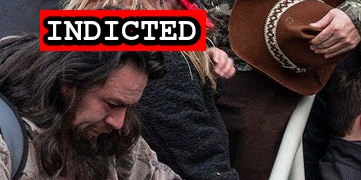
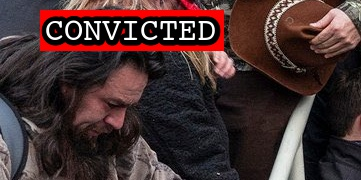
Latest import

Changed region(s): [[0.0914, 0.0278, 0.6399, 0.3056]]

diff --git a/docs/_suspects/jack-whitton.md b/docs/_suspects/jack-whitton.md
@@ -17,7 +17,7 @@ plea_hearing: 2022-09-13
 trial_date:
 trial_type:
 jury_selection:
-sentencing: 2023-03-06
+sentencing: 2023-06-14
 status_conference:
 age: 30
 occupation: Fencing Contractor, CrossFit Instructor
@@ -40,27 +40,28 @@ caseNumber: 21-cr-0035
 caseName: USA v. WHITTON
 judge: Rudolph Contreras
 videos:
-- title: Ex. 1 - Storyful Video.mp4 (0:01:41)
-  url: https://propublica-data-j6cases-videos.s3.us-east-1.amazonaws.com/7fc9a690ce2a013960702cde48001122.mp4
-- title: Ex. 2 - A.W. BWC.mp4 (0:02:10)
-  url: https://propublica-data-j6cases-videos.s3.us-east-1.amazonaws.com/91ebc4b0ce2a013960702cde48001122.mp4
-- title: Ex. 3 - C.M. BWC.mp4 (0:02:02)
-  url: https://propublica-data-j6cases-videos.s3.us-east-1.amazonaws.com/74435eb0ce2a013960702cde48001122.mp4
-- title: Ex. 4 - DP BWC Clip.mp4 (0:00:37)
-  url: https://propublica-data-j6cases-videos.s3.us-east-1.amazonaws.com/8d5c1c00ce2a013960702cde48001122.mp4
-- title: Ex. 5 - USCP - Lower West Terrace - 16.48.38.mp4 (0:01:00)
-  url: https://propublica-data-j6cases-videos.s3.us-east-1.amazonaws.com/86f414a0ce2a013960702cde48001122.mp4
-- title: Ex. 6 - Defendant Cell Phone Video.mov (0:00:48)
-  url: https://propublica-data-j6cases-videos.s3.us-east-1.amazonaws.com/a0993630ce2a013960702cde48001122.mp4
+  - title: Ex. 1 - Storyful Video.mp4 (0:01:41)
+    url: https://propublica-data-j6cases-videos.s3.us-east-1.amazonaws.com/7fc9a690ce2a013960702cde48001122.mp4
+  - title: Ex. 2 - A.W. BWC.mp4 (0:02:10)
+    url: https://propublica-data-j6cases-videos.s3.us-east-1.amazonaws.com/91ebc4b0ce2a013960702cde48001122.mp4
+  - title: Ex. 3 - C.M. BWC.mp4 (0:02:02)
+    url: https://propublica-data-j6cases-videos.s3.us-east-1.amazonaws.com/74435eb0ce2a013960702cde48001122.mp4
+  - title: Ex. 4 - DP BWC Clip.mp4 (0:00:37)
+    url: https://propublica-data-j6cases-videos.s3.us-east-1.amazonaws.com/8d5c1c00ce2a013960702cde48001122.mp4
+  - title: Ex. 5 - USCP - Lower West Terrace - 16.48.38.mp4 (0:01:00)
+    url: https://propublica-data-j6cases-videos.s3.us-east-1.amazonaws.com/86f414a0ce2a013960702cde48001122.mp4
+  - title: Ex. 6 - Defendant Cell Phone Video.mov (0:00:48)
+    url: https://propublica-data-j6cases-videos.s3.us-east-1.amazonaws.com/a0993630ce2a013960702cde48001122.mp4
 charges:
-- code: 18 USC § 111(a)(1) and (b)
-  title: Assaulting, resisting, or impeding certain officers or employees (using a deadly or dangerous weapon)
-  url: https://www.law.cornell.edu/uscode/text/18/111
-  felony: true
+  - code: 18 USC § 111(a)(1) and (b)
+    title: Assaulting, resisting, or impeding certain officers or employees (using a deadly or dangerous weapon)
+    url: https://www.law.cornell.edu/uscode/text/18/111
+    felony: true
 sentence:
 ---
+
 - [News Report](https://www.ajc.com/news/georgia-man-arrested-for-assaulting-capitol-police-officer-in-jan-6-riot/TGTRBG5SEJEZ5AQQNI7ZIN6QUQ/)
-- [Indictment](https://www.justice.gov/usao-dc/case-multi-defendant/file/1534701/download)
+- [Indictment](https://www.justice.gov/usao-dc/case-multi-defendant/file/1461561/download)
 - [Bodycam Evidence (Video)](https://twitter.com/LukeLBarr/status/1413532213761789956)
 - [Plea Agreement](https://www.justice.gov/usao-dc/case-multi-defendant/file/1534706/download)
 - [Statement of Offense](https://www.justice.gov/usao-dc/case-multi-defendant/file/1534711/download)

diff --git a/docs/_suspects/jeffrey-sabol.md b/docs/_suspects/jeffrey-sabol.md
@@ -40,20 +40,21 @@ caseNumber: 21-cr-0035
 caseName: USA v. SABOL
 judge: Rudolph Contreras
 videos:
-- title: EX 2 - A.W. BWC Clip.mp4 (0:01:06)
-  url: https://propublica-data-j6cases-videos.s3.us-east-1.amazonaws.com/ca43d920ce2c013960702cde48001122.mp4
-- title: EX 3 - Storyful Video.mp4 (0:01:41)
-  url: https://propublica-data-j6cases-videos.s3.us-east-1.amazonaws.com/d2152e60ce2c013960702cde48001122.mp4
-- title: EX 5A - C.M. BWC Clip.mp4 (0:01:13)
-  url: https://propublica-data-j6cases-videos.s3.us-east-1.amazonaws.com/db70be80ce2c013960702cde48001122.mp4
-- title: Ex. 6 - D.P. BWC Clip.mp4 (0:00:20)
-  url: https://propublica-data-j6cases-videos.s3.us-east-1.amazonaws.com/d8d50ea0ce2c013960702cde48001122.mp4
+  - title: EX 2 - A.W. BWC Clip.mp4 (0:01:06)
+    url: https://propublica-data-j6cases-videos.s3.us-east-1.amazonaws.com/ca43d920ce2c013960702cde48001122.mp4
+  - title: EX 3 - Storyful Video.mp4 (0:01:41)
+    url: https://propublica-data-j6cases-videos.s3.us-east-1.amazonaws.com/d2152e60ce2c013960702cde48001122.mp4
+  - title: EX 5A - C.M. BWC Clip.mp4 (0:01:13)
+    url: https://propublica-data-j6cases-videos.s3.us-east-1.amazonaws.com/db70be80ce2c013960702cde48001122.mp4
+  - title: Ex. 6 - D.P. BWC Clip.mp4 (0:00:20)
+    url: https://propublica-data-j6cases-videos.s3.us-east-1.amazonaws.com/d8d50ea0ce2c013960702cde48001122.mp4
 charges:
 sentence:
 ---
+
 - [News Report](https://www.cnbc.com/2021/01/22/capitol-riots-man-admits-dragging-cop-to-be-beaten-by-flag-pole.html)
 - [FBI Statement (Twitter)](https://twitter.com/NewYorkFBI/status/1352658310269382656?s=20)
 - [DOJ Press Release](https://www.justice.gov/usao-dc/pr/three-charged-federal-court-assaulting-and-impeding-local-and-federal-officers-during-us)
 - [Complaint](https://www.justice.gov/opa/page/file/1360836/download)
 - [Statement of Facts](https://www.justice.gov/opa/page/file/1360836/download)
-- [Indictment](https://www.justice.gov/usao-dc/case-multi-defendant/file/1413436/download)
+- [Indictment](https://www.justice.gov/usao-dc/case-multi-defendant/file/1461561/download)

diff --git a/docs/_suspects/peter-stager.md b/docs/_suspects/peter-stager.md
@@ -4,11 +4,11 @@ lastName: Stager
 hashtag: Caveman
 aka:
 residence: Arkansas
-status: Indicted
+status: Convicted
 date: 2021-01-14
 charged: 2021-01-14
 indicted: 2021-01-29
-convicted:
+convicted: 2023-02-16
 acquitted:
 sentenced:
 dismissed:
@@ -17,7 +17,7 @@ plea_hearing: 2023-02-16
 trial_date:
 trial_type:
 jury_selection:
-sentencing:
+sentencing: 2023-07-24
 status_conference:
 age: 41
 occupation:
@@ -32,7 +32,7 @@ raid: peter-stager.jpg
 perpwalk:
 quote: "Everybody in there is a treasonous traitor. Death is the only remedy for what’s in that building."
 title: Peter Stager charged on January 14, 2021
-description: Click for latest case details. Suspects considered innocent until proven guilty.
+description: Convicted on February 16, 2023. Click for latest case details.
 author: seditiontrack
 layout: suspect
 published: true
@@ -41,8 +41,13 @@ caseName: USA v. STAGER
 judge: Rudolph Contreras
 videos:
 charges:
+  - code: 18 USC § 111(a)(1) and (b),2
+    title: Assaulting, resisting, or impeding certain officers or employees (using a deadly or dangerous weapon) (Aiding and Abetting)
+    url: https://www.law.cornell.edu/uscode/text/18/111
+    felony: true
 sentence:
 ---
+
 - [News Report](https://www.wsj.com/livecoverage/trump-impeachment-house-biden/card/BeFqRm1wpv2SEpH3SSLQ)
 - [Self Incrimination [VIDEO]](https://www.youtube.com/watch?v=SVhLKKTUhIg&feature=youtu.be)
 - [Complaint](https://www.justice.gov/opa/page/file/1354981/download)

diff --git a/docs/_suspects/logan-barnhart.md b/docs/_suspects/logan-barnhart.md
@@ -41,14 +41,15 @@ caseName: USA v. BARNHART
 judge: Emmet G. Sullivan
 videos:
 charges:
-- code: 18 USC § 111(a)(1) and (b)
-  title: Assaulting, resisting, or impeding certain officers or employees (using a deadly or dangerous weapon)
-  url: https://www.law.cornell.edu/uscode/text/18/111
-  felony: true
+  - code: 18 USC § 111(a)(1) and (b)
+    title: Assaulting, resisting, or impeding certain officers or employees (using a deadly or dangerous weapon)
+    url: https://www.law.cornell.edu/uscode/text/18/111
+    felony: true
 sentence:
 ---
+
 - [News Report](https://www.huffpost.com/entry/logan-barnhart-trump-capitol-attack-fbi-arrest_n_6086e1b3e4b02e74d21d4a28?ztc)
-- [Indictment](https://www.justice.gov/usao-dc/case-multi-defendant/file/1425176/download)
+- [Indictment](https://www.justice.gov/usao-dc/case-multi-defendant/file/1461561/download)
 - [DOJ Press Release](https://www.justice.gov/usao-dc/pr/michigan-and-tennessee-men-arrested-assault-law-enforcement-during-jan-6-capitol-breach)
 - [Plea Agreement](https://www.justice.gov/usao-dc/case-multi-defendant/file/1538856/download)
 - [Statement of Offense](https://www.justice.gov/usao-dc/case-multi-defendant/file/1538861/download)

diff --git a/docs/_suspects/justin-jersey.md b/docs/_suspects/justin-jersey.md
@@ -41,14 +41,15 @@ caseName: USA v. JERSEY
 judge: Emmet G. Sullivan
 videos:
 charges:
-- code: 18 USC § 111(a)(1) and (b)
-  title: Assaulting, resisting, or impeding certain officers or employees (using a deadly or dangerous weapon)
-  url: https://www.law.cornell.edu/uscode/text/18/111
-  felony: true
+  - code: 18 USC § 111(a)(1) and (b)
+    title: Assaulting, resisting, or impeding certain officers or employees (using a deadly or dangerous weapon)
+    url: https://www.law.cornell.edu/uscode/text/18/111
+    felony: true
 sentence:
 ---
+
 - [News Report](https://www.huffpost.com/entry/fingerman-capitol-attack-justin-jersey-trump_n_61a9091ee4b025be1af50402?3w)
 - [DOJ Press Release](https://www.justice.gov/usao-dc/pr/michigan-man-arrested-assault-law-enforcement-during-jan-6-capitol-breach)
-- [Indictment](https://www.justice.gov/usao-dc/case-multi-defendant/file/1533256/download)
+- [Indictment](https://www.justice.gov/usao-dc/case-multi-defendant/file/1461561/download)
 - [Plea Agreement](https://www.justice.gov/usao-dc/case-multi-defendant/file/1533311/download)
 - [Statement of Offense](https://www.justice.gov/usao-dc/case-multi-defendant/file/1533316/download)

diff --git a/docs/_suspects/mason-courson.md b/docs/_suspects/mason-courson.md
@@ -41,12 +41,13 @@ caseName: USA v. COURSON
 judge: Rudolph Contreras
 videos:
 charges:
-- code: 18 USC § 111(a)(1) and (b),2
-  title: Assaulting, resisting, or impeding certain officers or employees (using a deadly or dangerous weapon) (Aiding and Abetting)
-  url: https://www.law.cornell.edu/uscode/text/18/111
-  felony: true
+  - code: 18 USC § 111(a)(1) and (b),2
+    title: Assaulting, resisting, or impeding certain officers or employees (using a deadly or dangerous weapon) (Aiding and Abetting)
+    url: https://www.law.cornell.edu/uscode/text/18/111
+    felony: true
 sentence:
 ---
+
 - [News Report](https://abcnews.go.com/US/wireStory/florida-man-arrested-charged-jan-attack-us-capitol-81775546)
-- [Indictment](https://www.justice.gov/usao-dc/case-multi-defendant/file/1554836/download)
+- [Indictment](https://www.justice.gov/usao-dc/case-multi-defendant/file/1461561/download)
 - [Information](https://www.justice.gov/usao-dc/case-multi-defendant/file/1554831/download)

diff --git a/docs/_suspects/matthew-beddingfield.md b/docs/_suspects/matthew-beddingfield.md
@@ -17,7 +17,7 @@ plea_hearing: 2023-02-16
 trial_date:
 trial_type:
 jury_selection:
-sentencing:
+sentencing: 2023-06-22
 status_conference:
 age: 21
 occupation:
@@ -41,13 +41,12 @@ caseName: USA v. BEDDINGFIELD
 judge: Carl J. Nichols
 videos:
 charges:
-  - code: 18 USC § 111(a)(1)
-    title: Assaulting, resisting, or impeding certain officers or employees
-    url: https://www.law.cornell.edu/uscode/text/18/111
-    felony: true
+- code: 18 USC § 111(a)(1)
+  title: Assaulting, resisting, or impeding certain officers or employees
+  url: https://www.law.cornell.edu/uscode/text/18/111
+  felony: true
 sentence:
 ---
-
 - [News Report](https://www.nbcnews.com/politics/justice-department/fbi-arrests-trump-fan-stormed-capitol-bail-attempted-murder-rcna15169)
 - [Complaint](https://www.justice.gov/usao-dc/case-multi-defendant/file/1470311/download)
 - [Statement of Facts](https://www.justice.gov/usao-dc/case-multi-defendant/file/1470316/download)

diff --git a/docs/_suspects/michael-lopatic.md b/docs/_suspects/michael-lopatic.md
@@ -43,8 +43,9 @@ videos:
 charges:
 sentence:
 ---
+
 - [News Report](https://lancasteronline.com/news/local/neighbors-react-to-arrest-of-manheim-twp-man-accused-of-assaulting-police-during-capitol-riot/article_7f3a031c-6bec-11eb-b41e-3f59ba4e0969.html)
 - [DOJ Press Release](https://extremism.gwu.edu/sites/g/files/zaxdzs2191/f/Michael%20John%20Lopatic%20Govt%20Motion%20for%20Pretrial%20Detention.pdf)
 - [Detention Memo](https://extremism.gwu.edu/sites/g/files/zaxdzs2191/f/Michael%20John%20Lopatic%20Govt%20Motion%20for%20Pretrial%20Detention.pdf)
-- [Indictment](https://www.justice.gov/usao-dc/case-multi-defendant/file/1371441/download)
+- [Indictment](https://www.justice.gov/usao-dc/case-multi-defendant/file/1461561/download)
 - [Death](https://www.ydr.com/story/news/nation/2022/07/06/michael-lopatic-of-lancaster-dead-one-year-after-insurrection-arrest/65367853007/)

diff --git a/docs/_suspects/brian-jones.md b/docs/_suspects/brian-jones.md
@@ -41,13 +41,12 @@ caseName: USA v. JONES
 judge: Timothy J. Kelly
 videos:
 charges:
-  - code: 40 USC § 5104(e)(2)(G)
-    title: Parading, demonstrating or picketing in a Capitol building
-    url: https://www.law.cornell.edu/uscode/text/40/5104
-    felony: false
+- code: 40 USC § 5104(e)(2)(G)
+  title: Parading, demonstrating or picketing in a Capitol building
+  url: https://www.law.cornell.edu/uscode/text/40/5104
+  felony: false
 sentence:
 ---
-
 - [News Report](https://www.msn.com/en-us/news/crime/fbi-uses-online-records-to-catch-mount-vernon-men-who-smoked-weed-during-capitol-riots/ar-AAVDP00)
 - [Complaint](https://www.justice.gov/usao-dc/case-multi-defendant/file/1488271/download)
 - [Statement of Facts](https://www.justice.gov/usao-dc/case-multi-defendant/file/1488276/download)

diff --git a/docs/_suspects/patrick-king.md b/docs/_suspects/patrick-king.md
@@ -41,13 +41,12 @@ caseName: USA v. KING
 judge: Timothy J. Kelly
 videos:
 charges:
-  - code: 40 USC § 5104(e)(2)(G)
-    title: Parading, demonstrating or picketing in a Capitol building
-    url: https://www.law.cornell.edu/uscode/text/40/5104
-    felony: false
+- code: 40 USC § 5104(e)(2)(G)
+  title: Parading, demonstrating or picketing in a Capitol building
+  url: https://www.law.cornell.edu/uscode/text/40/5104
+  felony: false
 sentence:
 ---
-
 - [News Report](https://www.msn.com/en-us/news/crime/fbi-uses-online-records-to-catch-mount-vernon-men-who-smoked-weed-during-capitol-riots/ar-AAVDP00)
 - [Complaint](https://www.justice.gov/usao-dc/case-multi-defendant/file/1488261/download)
 - [Statement of Facts](https://www.justice.gov/usao-dc/case-multi-defendant/file/1488266/download)

diff --git a/docs/_suspects/ronald-mcabee.md b/docs/_suspects/ronald-mcabee.md
@@ -43,6 +43,7 @@ videos:
 charges:
 sentence:
 ---
+
 - [News Report](https://www.tennessean.com/story/news/politics/2021/08/17/tennessee-man-ronald-colton-mcabee-arrested-us-capitol-officer-assault/8172152002/)
-- [Indictment](https://www.justice.gov/usao-dc/case-multi-defendant/file/1425176/download)
+- [Indictment](https://www.justice.gov/usao-dc/case-multi-defendant/file/1461561/download)
 - [DOJ Press Release](https://www.justice.gov/usao-dc/pr/michigan-and-tennessee-men-arrested-assault-law-enforcement-during-jan-6-capitol-breach)

diff --git a/docs/_suspects/clayton-mullins.md b/docs/_suspects/clayton-mullins.md
@@ -43,6 +43,7 @@ videos:
 charges:
 sentence:
 ---
+
 - [News Report](https://www.wpsdlocal6.com/news/local-man-arrested-in-connection-to-capitol-riots/article_121d7218-7647-11eb-b188-03ed79745ed0.html)
 - [FBI Statement (Twitter)](https://twitter.com/FBILouisville/status/1364395746594799617?s=20)
 - [Statement of Facts](https://www.justice.gov/usao-dc/case-multi-defendant/file/1371466/download)
